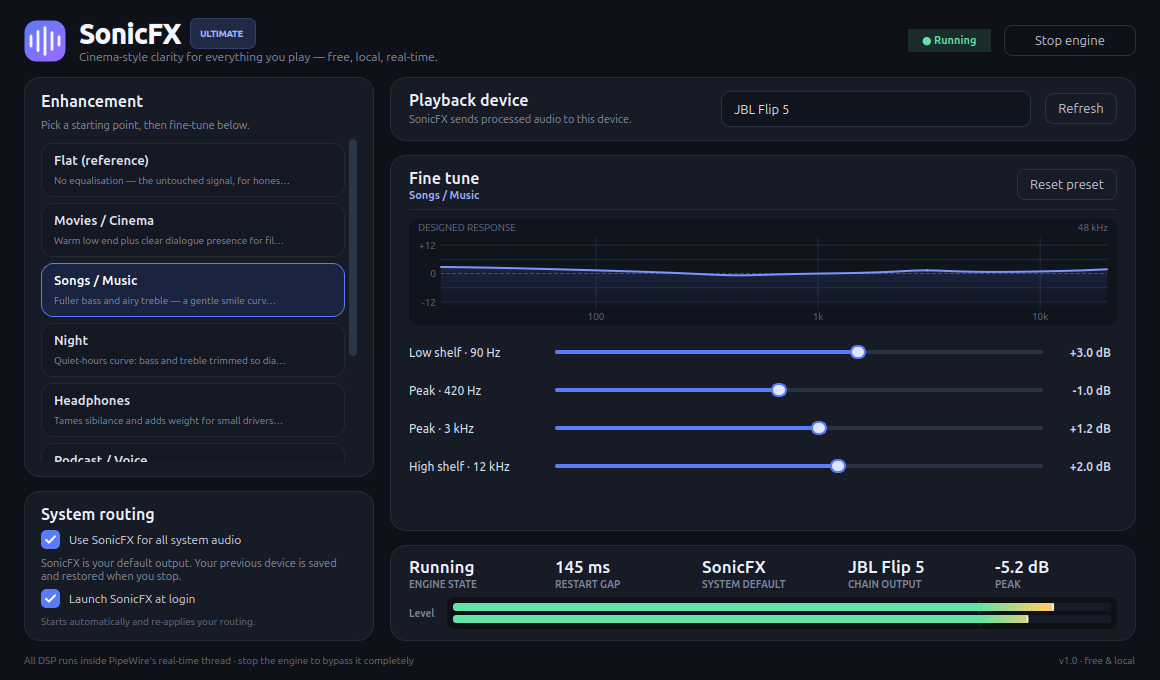
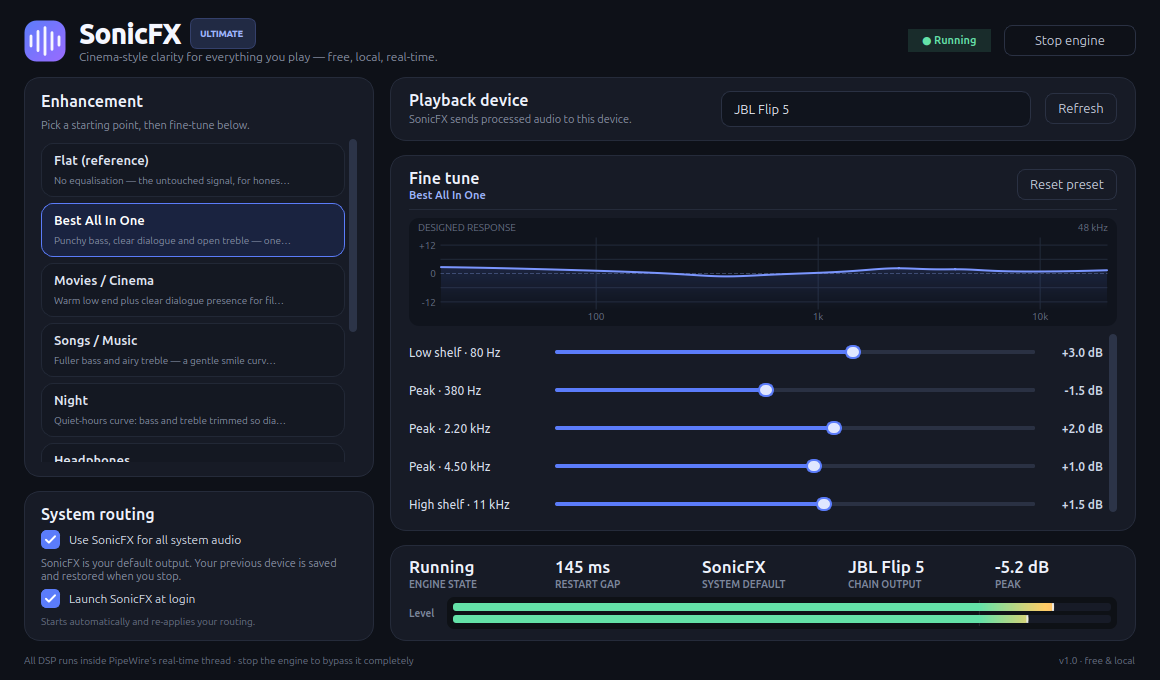
Add Best All In One preset, harden live meter, install yt-dlp for mpv

diff --git a/src/sonicfx/ui/controller.py b/src/sonicfx/ui/controller.py
@@ -167,7 +167,7 @@ class MeterWorker(QThread):
                 continue
             capturing = True
             try:
-                outcome = self._drain(tap)
+                outcome = self._drain(tap, target)
             except Exception:  # noqa: BLE001 - the meter must never crash Qt
                 log.exception("peak meter drain failed")
                 self.levels.emit(0.0, 0.0)
@@ -181,7 +181,7 @@ class MeterWorker(QThread):
                 break
         self.levels.emit(0.0, 0.0)
 
-    def _drain(self, tap: LevelTap) -> str:
+    def _drain(self, tap: LevelTap, target: str) -> str:
         """Read one tap until stop/refresh/target-change/stream end."""
         while True:
             if self._stop.is_set():
@@ -189,7 +189,11 @@ class MeterWorker(QThread):
             if self._refresh.is_set():
                 self._refresh.clear()
                 return "refresh"
-            if not self._target_provider():
+            # A refresh can be consumed while the capture is still starting;
+            # compare the target itself so a device change is never lost and
+            # the meter cannot keep reading the old device's monitor.
+            current = self._target_provider()
+            if not current or current != target:
                 return "retarget"
             levels = tap.read(timeout=self.READ_TIMEOUT_S)
             if levels is None:
@@ -480,10 +484,15 @@ class Controller(QObject):
         names = [sink.name for sink in sinks]
         if self._output not in names:
             chosen = next((sink.name for sink in sinks if sink.is_default), "")
+            previous = self._output
             self._output = chosen or (names[0] if names else "")
             self._settings.setValue("output_device", self._output)
-            if self._running:
-                self._meter_worker.refresh()  # follow the device change
+            if self._running and self._output != previous:
+                # The old device vanished: follow it with the meter and rewire
+                # the running chain instead of silently pointing at a dead sink.
+                self._meter_worker.refresh()
+                if self._output:
+                    self._schedule_apply()
         self.sinks_changed.emit(sinks)
         self.output_changed.emit(self._output)
 
@@ -587,6 +596,10 @@ class Controller(QObject):
     @Slot(float, float)
     def _on_meter_levels(self, left: float, right: float) -> None:
         """Raw peaks from the worker: instant attack on the held values."""
+        if self._shutdown or not self._running:
+            # A capture result can already be queued when the engine stops;
+            # never let it repopulate a meter that was just reset to silence.
+            return
         self._peak_db = (
             max(self._peak_db[0], _amp_to_db(left)),
             max(self._peak_db[1], _amp_to_db(right)),

diff --git a/tests/test_controller.py b/tests/test_controller.py
@@ -267,6 +267,11 @@ def test_meter_resets_when_engine_stops(qtbot, controller) -> None:
 
     assert ctrl.meter_peak_db == (-60.0, -60.0)
 
+    # A capture result already queued when the engine stopped must not wake a
+    # meter that was just reset to silence.
+    worker.levels.emit(0.8, 0.7)
+    assert ctrl.meter_peak_db == (-60.0, -60.0)
+
 
 def test_meter_target_switches_with_output(qtbot, controller, monkeypatch) -> None:
     ctrl, _engine, _router = controller
@@ -286,6 +291,28 @@ def test_meter_target_switches_with_output(qtbot, controller, monkeypatch) -> No
 
     assert worker.target_provider() == "bluez.speaker.monitor"
     assert worker.refresh_calls >= 2
+
+
+def test_refresh_rewires_running_engine_after_device_disappears(
+    qtbot, controller, monkeypatch
+) -> None:
+    ctrl, engine, _router = controller
+    with qtbot.waitSignal(ctrl.status_changed, timeout=4_000):
+        ctrl.start_engine()
+    starts = len(engine.apply_calls)
+
+    monkeypatch.setattr(
+        controller_module,
+        "list_sinks",
+        lambda: [SinkInfo("bluez.replacement", 9, "Replacement Speaker", False)],
+    )
+    with qtbot.waitSignal(ctrl.status_changed, timeout=4_000):
+        ctrl.refresh_sinks()
+        ctrl.apply_now()
+
+    assert ctrl.output == "bluez.replacement"
+    assert len(engine.apply_calls) == starts + 1
+    assert engine.apply_calls[-1][1] == "bluez.replacement"
 
 
 def test_meter_worker_stops_with_controller(controller) -> None:

diff --git a/tests/test_presets.py b/tests/test_presets.py
@@ -54,6 +54,23 @@ def test_night_reduces_bass_and_treble() -> None:
     assert high and high[0].gain_db < 0.0
 
 
+def test_best_all_in_one_balances_bass_presence_and_air() -> None:
+    bands = get_preset("best_all_in_one").bands
+    assert any(
+        band.kind is FilterKind.LOW_SHELF and band.gain_db > 0.0 for band in bands
+    )
+    assert any(
+        1_500.0 <= band.freq <= 3_000.0 and band.gain_db > 0.0 for band in bands
+    )
+    assert any(
+        band.kind is FilterKind.HIGH_SHELF and band.gain_db > 0.0 for band in bands
+    )
+    # The all-rounder must not be bass-only: it also clears the mud region.
+    assert any(
+        250.0 <= band.freq <= 600.0 and band.gain_db < 0.0 for band in bands
+    )
+
+
 def test_flat_is_neutral() -> None:
     assert get_preset("flat").bands == ()
 

diff --git a/src/sonicfx/profiles/presets.py b/src/sonicfx/profiles/presets.py
@@ -42,6 +42,21 @@ PRESETS: tuple[Preset, ...] = (
         bands=(),
     ),
     Preset(
+        key="best_all_in_one",
+        label="Best All In One",
+        description=(
+            "Punchy bass, clear dialogue and open treble — one balanced curve "
+            "for everything."
+        ),
+        bands=(
+            BiquadBand(FilterKind.LOW_SHELF, 80.0, 3.0, 0.7),
+            BiquadBand(FilterKind.PEAKING, 380.0, -1.5, 1.0),
+            BiquadBand(FilterKind.PEAKING, 2_200.0, 2.0, 1.05),
+            BiquadBand(FilterKind.PEAKING, 4_500.0, 1.0, 1.4),
+            BiquadBand(FilterKind.HIGH_SHELF, 11_000.0, 1.5, 0.7),
+        ),
+    ),
+    Preset(
         key="movies",
         label="Movies / Cinema",
         description=(

diff --git a/tests/test_meter_worker.py b/tests/test_meter_worker.py
@@ -125,6 +125,16 @@ def test_worker_recovers_after_failed_start(qtbot) -> None:
         assert worker.wait(5_000) is True
 
 
+def test_worker_retargets_if_capture_starts_on_stale_device() -> None:
+    tap = ScriptedTap("old.monitor", None)
+    worker = MeterWorker(lambda: "new.monitor", tap_factory=lambda _target: tap)
+
+    # Simulate the refresh flag being consumed just before the tap starts: the
+    # drain still must notice that the requested target no longer matches.
+    assert worker._drain(tap, "old.monitor") == "retarget"
+    assert tap.started is False
+
+
 def test_worker_stays_quiet_until_a_target_appears(qtbot) -> None:
     taps: list[ScriptedTap] = []
     enabled = [False]

diff --git a/scripts/ui_preview.py b/scripts/ui_preview.py
@@ -52,7 +52,7 @@ class PreviewController(QObject):
 
     def __init__(self) -> None:
         super().__init__()
-        self._preset_key = "songs"
+        self._preset_key = "best_all_in_one"
         self._output = "bluez_output.30_C0_1B_D2_9B_F2.1"
         self._running = True
         self._busy = False

diff --git a/README.md b/README.md
@@ -1,9 +1,10 @@
 # SonicFX Ultimate
 
 A free, local, open-source **system-wide audio enhancer for Ubuntu / Linux Mint
-(PipeWire)**. It runs real-time parametric EQ presets (cinema, music, night,
-headphones, voice, gaming, bass) on live audio from browsers, VLC, games and any
-desktop app, and can become your **default output** so everything is processed.
+(PipeWire)**. It runs real-time parametric EQ presets (all-in-one, cinema, music,
+night, headphones, voice, gaming, bass) on live audio from browsers, VLC, games
+and any desktop app, and can become your **default output** so everything is
+processed.
 
 * No subscriptions, accounts, ads, paid APIs or cloud: all local processing.
 * Real DSP in the PipeWire real-time thread (C biquad filters) — no Python in
@@ -35,7 +36,7 @@ On first launch the window starts the engine, selects the current default
 hardware output and — because this profile opted in — makes **SonicFX the
 default output**. Apps keep playing normally; their audio is routed through
 SonicFX and then to the chosen device. The **Songs / Music** preset is the first
-choice, with all other presets one click away.
+choice, with **Best All In One** and every other preset one click away.
 
 * Toggle **Use SonicFX for all system audio** at any time.
 * **Stop engine** (or closing the window) restores the previous default device
@@ -74,10 +75,10 @@ music on the same laptop:
 sudo scripts/install-media-4k.sh
 ```
 
-It installs Intel iHD VA-API hardware decoding, mpv + Celluloid, GStreamer
-VA-API plugins and Firefox VA-API preferences. Details, verification commands
-and troubleshooting: `docs/media-4k-setup.md`. It does not change your default
-audio devices or SonicFX routing.
+It installs Intel iHD VA-API hardware decoding, mpv + Celluloid, `yt-dlp` for
+YouTube/URL playback, GStreamer VA-API plugins and Firefox VA-API preferences.
+Details, verification commands and troubleshooting: `docs/media-4k-setup.md`.
+It does not change your default audio devices or SonicFX routing.
 
 ## Repository layout
 
@@ -93,7 +94,7 @@ src/sonicfx/
   database/       # SQLite persistence (Stage 6)
   diagnostics/    # environment audit, logs, recovery (Stage 1/6)
 docs/             # architecture, stage results, limitations, licenses
-tests/            # pytest suites (154 tests; live PipeWire suite opt-in)
+tests/            # pytest suites (173 tests; live PipeWire suite opt-in)
 scripts/          # install / setup / probe / preview / packaging
 ```
 

diff --git a/docs/media-4k-setup.md b/docs/media-4k-setup.md
@@ -31,6 +31,9 @@ stays native.
   Gen 9.5; `libva2`, `libva-drm2`, `mesa-va-drivers` as support/fallback.
 * `ffmpeg` — codecs and conversion.
 * `mpv` + `celluloid` — player and GTK movie-player front end.
+* `yt-dlp` — the YouTube URL extractor mpv uses for online videos. Without it,
+  opening a YouTube link makes mpv exit with “Failed to recognize file format”
+  (it is not a crash and leaves no core dump).
 * `gstreamer1.0-vaapi`, `gstreamer1.0-libav`,
   `gstreamer1.0-plugins-good`, `gstreamer1.0-plugins-bad`.
 * `libva-utils` (provides `vainfo`) when available.
@@ -49,6 +52,8 @@ H.264/HEVC/VP9 playback with mpv/ffmpeg and is deliberately left out.)
 vainfo | grep -E "Driver version|HEVC|VP9"
 mpv --hwdec=vaapi '/path/to/movie.mkv'   # Ctrl+Shift+I shows decode stats
 celluloid '/path/to/movie.mkv'
+yt-dlp --version                         # URL playback needs this
+mpv 'https://youtu.be/RhRiIshrDv8'       # real YouTube smoke test
 ```
 
 In Firefox: `about:support` → *Graphics* → look for VA-API entries; codec
@@ -62,13 +67,14 @@ back in once on Wayland for the environment to settle).
 | `vainfo` fails with iHD errors | Try the legacy driver: `LIBVA_DRIVER_NAME=i965 vainfo`; if that works, run players with `LIBVA_DRIVER_NAME=i965` |
 | mpv falls back to software (`hwdec` warning) | `mpv --hwdec=vaapi --msg-level=vd=v` to see the reason; usually a missing profile (e.g. AV1) |
 | Firefox still software-decodes | Confirm `media.ffmpeg.vaapi.enabled` in `about:config`; snap Firefox needs a session restart; check `about:support` for blocklist flags |
+| mpv exits immediately on a YouTube link (`Failed to recognize file format`) | Install/update `yt-dlp`: `sudo apt install yt-dlp`; run `mpv --msg-level=ytdl_hook=debug URL` if it still fails |
 | 4K YouTube stutters in Firefox | Prefer 1440p on AV1-only videos; VP9 4K is hardware-decoded |
 | External 4K TV limited to 30 Hz | HDMI 1.4 limit; use the USB-C/DP output for 4K@60 |
 
 ## Uninstall
 
 ```bash
-sudo apt remove --purge mpv celluloid intel-media-va-driver libva-utils \
+sudo apt remove --purge mpv celluloid yt-dlp intel-media-va-driver libva-utils \
     gstreamer1.0-vaapi
 rm -f ~/.config/mpv/mpv.conf ~/.config/mpv/mpv.conf.sonicfx-backup
 # Firefox: remove the two user_pref lines from each profile's user.js

diff --git a/docs/stage4-gui-routing.md b/docs/stage4-gui-routing.md
@@ -15,7 +15,7 @@ window uses the same layout and values.*
 | Area | Implementation |
 |---|---|
 | Window | PySide6 single-window "SonicFX Ultimate" UI, dark theme, offscreen-renderable |
-| Presets | 8 built-in cards; selecting one applies its real band set |
+| Presets | 9 built-in cards (including **Best All In One**); selecting one applies its real band set |
 | Fine tune | One gain slider per preset band (0.5 dB steps, ±12 dB), live designed-response curve |
 | Engine controls | Start/Stop in the header; status chip and stats reflect observed engine state |
 | Output device | Real sink picker (`pw-dump`) + refresh; explicit `pw-link` to the chosen device |
@@ -38,10 +38,11 @@ The engine card shows a two-bar level meter and a numeric **Peak** readout.
   — the same audio that reaches the JBL/Bluetooth/wired speaker, post-DSP and
   post-device-volume. It is a passive monitor copy: no links are moved and the
   signal chain is untouched.
-* Worker: one `MeterWorker` `QThread` re-queries the target every attempt, so
-  changing the output device (or a Bluetooth drop/reconnect) restarts the
-  capture on the right monitor automatically; the engine never blocks and the
-  meter runs at ~45 Hz.
+* Worker: one `MeterWorker` `QThread` re-queries the target every attempt and
+  compares it with the active capture, so changing the output device (or a
+  Bluetooth drop/reconnect) restarts the capture on the right monitor even if
+  the change lands during startup; the engine never blocks and the meter runs
+  at ~45 Hz.
 * Semantics: dBFS scale −60…0 with a −12 dB guide; the controller holds peaks
   (instant attack, 10 dB/s release); "Peak" shows the louder channel.
 * Honesty rule learned live: a device at >100 % volume produces a clipped
@@ -95,7 +96,7 @@ post-apply links were identical, the measured restart including re-wiring was
 
 ## Tests
 
-`169` tests collected (168 pass, 1 live-skip); live PipeWire test remains opt-in.
+`173` tests collected (172 pass, 1 live-skip); live PipeWire test remains opt-in.
 
 ```bash
 .venv/bin/python -m pytest -q

diff --git a/docs/implementation-plan.md b/docs/implementation-plan.md
@@ -76,7 +76,7 @@ the audit flags it. Nothing fakes it.
 | Bass punch | low-shelf (60–90 Hz) + optional Calf bass-enhancer harmonic stage, limiter-protected |
 | Concert hall | Calf Reverb LV2 (decay 1.2–2.4 s, damping, wet mix presets) |
 | Loudness match | meter tap LUFS-I → slow target gain (bounded ±6 dB, no upward compression) |
-| Presets | Movies, Songs, Night, Headphones, Podcast/Voice, Gaming, Flat + user presets |
+| Presets | Best All In One, Movies, Songs, Night, Headphones, Podcast/Voice, Gaming, Bass, Flat + user presets |
 | Noise reduction (mic) | optional, opt-in build of rnnoise-LADSPA (documented, not bundled) |
 | Loudness | meter tap: K-weighted LUFS-I (Python, 100 ms update on tap only) + optional slow target-gain correction |
 | Meters / diagnostics | bounded low-rate monitor capture (not the audio path); GR estimated, clip detection from tap peaks |
